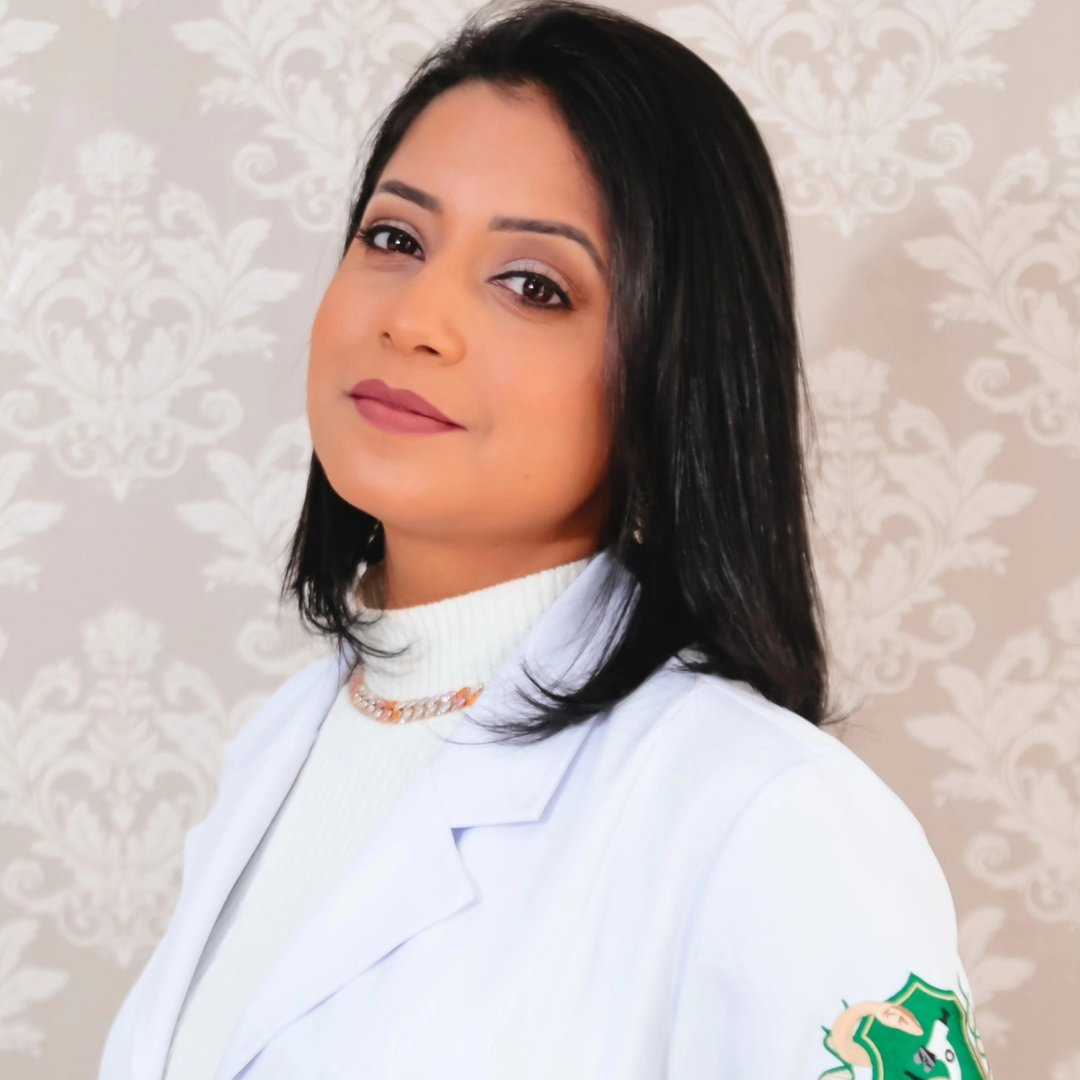
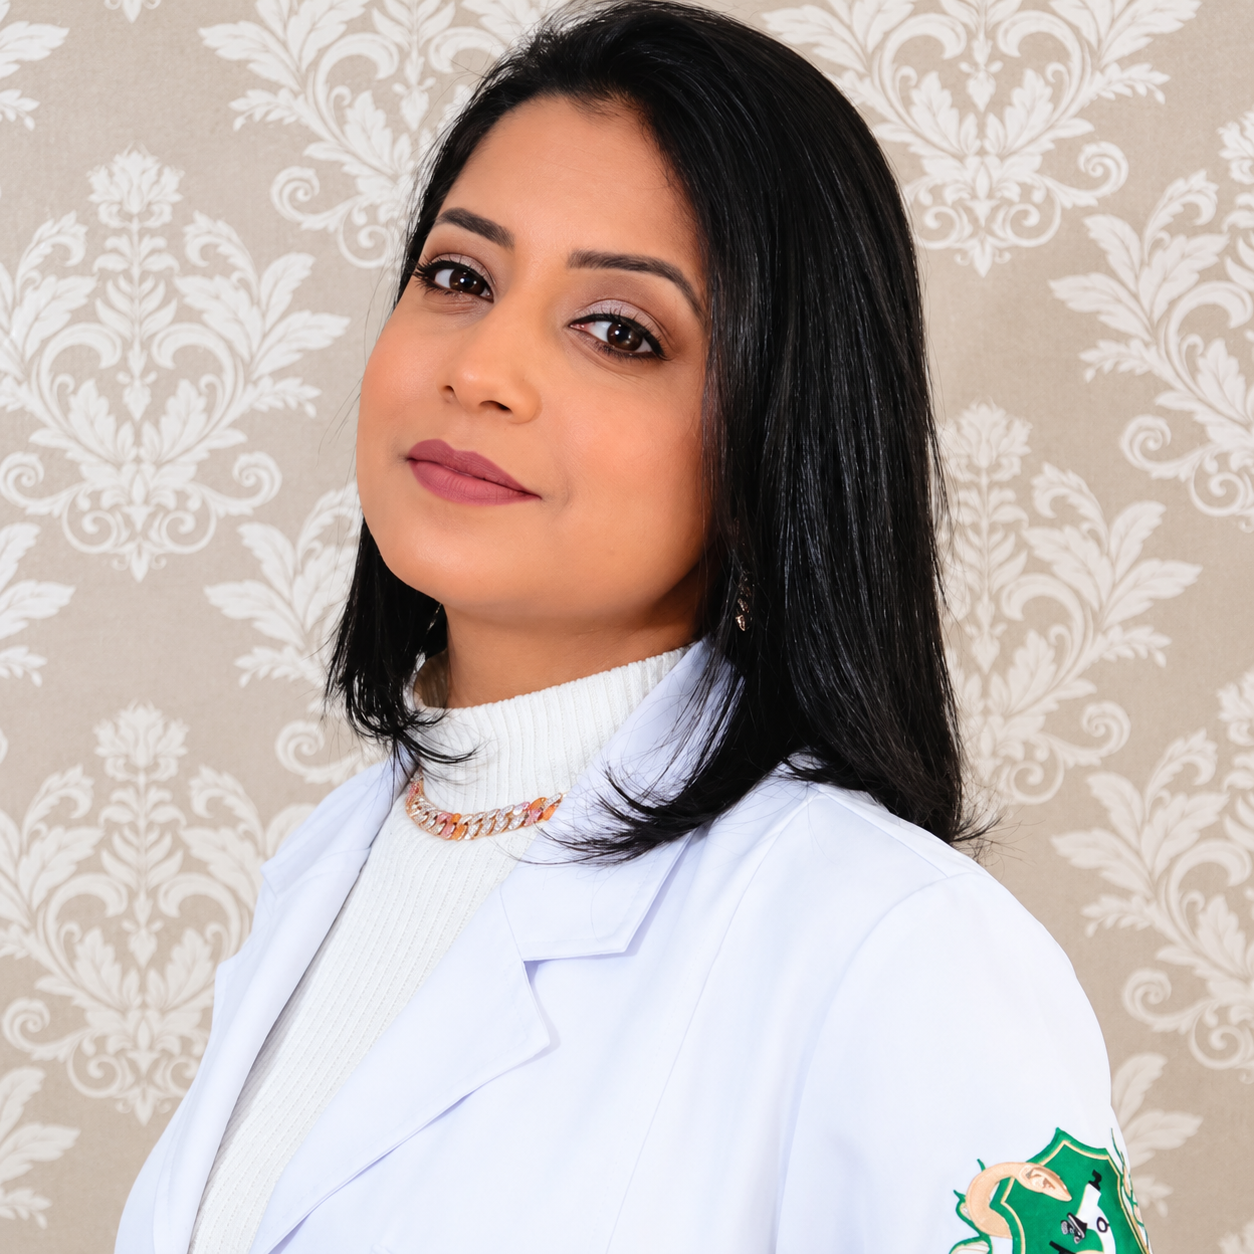
Hero: rosa claro no italico do titulo pra contraste
O "versao." usava --champagne (#c6809d), que sumia no fundo magenta.
Trocado por #f4d5e3, um rosa quase branco.

diff --git a/dayana-lopes/src/estilo.css b/dayana-lopes/src/estilo.css
@@ -2040,3 +2040,9 @@ to {
     object-position: 12% 30%;
   }
 }
+
+/* O "versão" em italico do hero estava usando o rose-suave (#c6809d),
+   que sumia no fundo magenta. Rosa muito mais claro pra dar contraste. */
+.hero h1 em {
+  color: #f4d5e3;
+}
